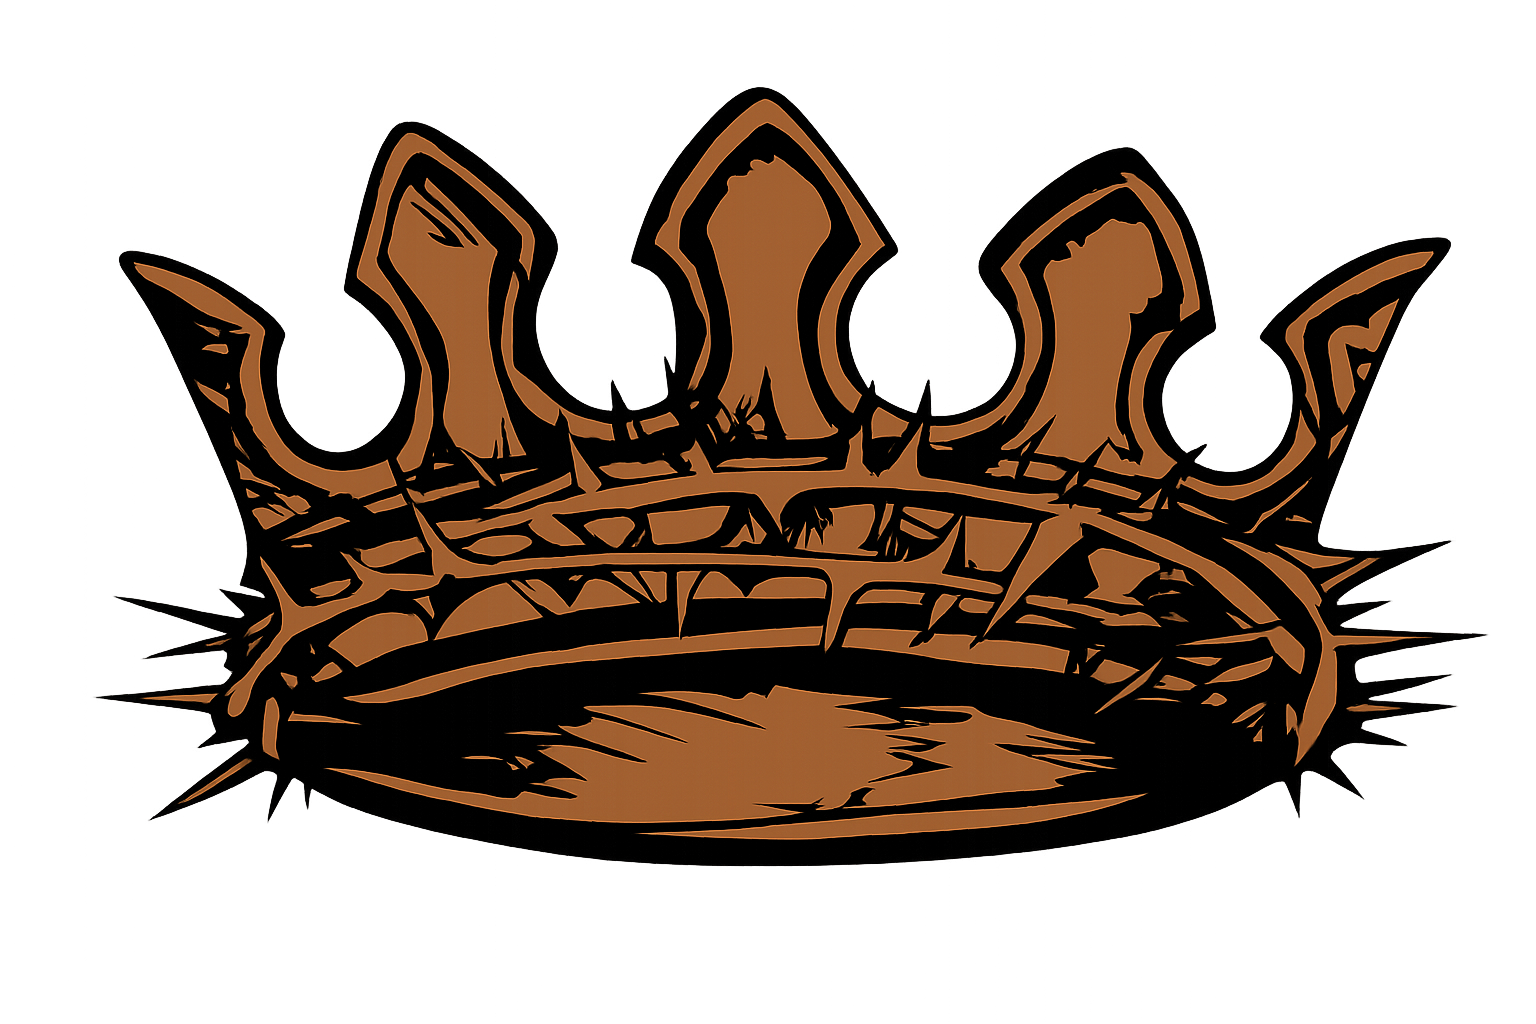
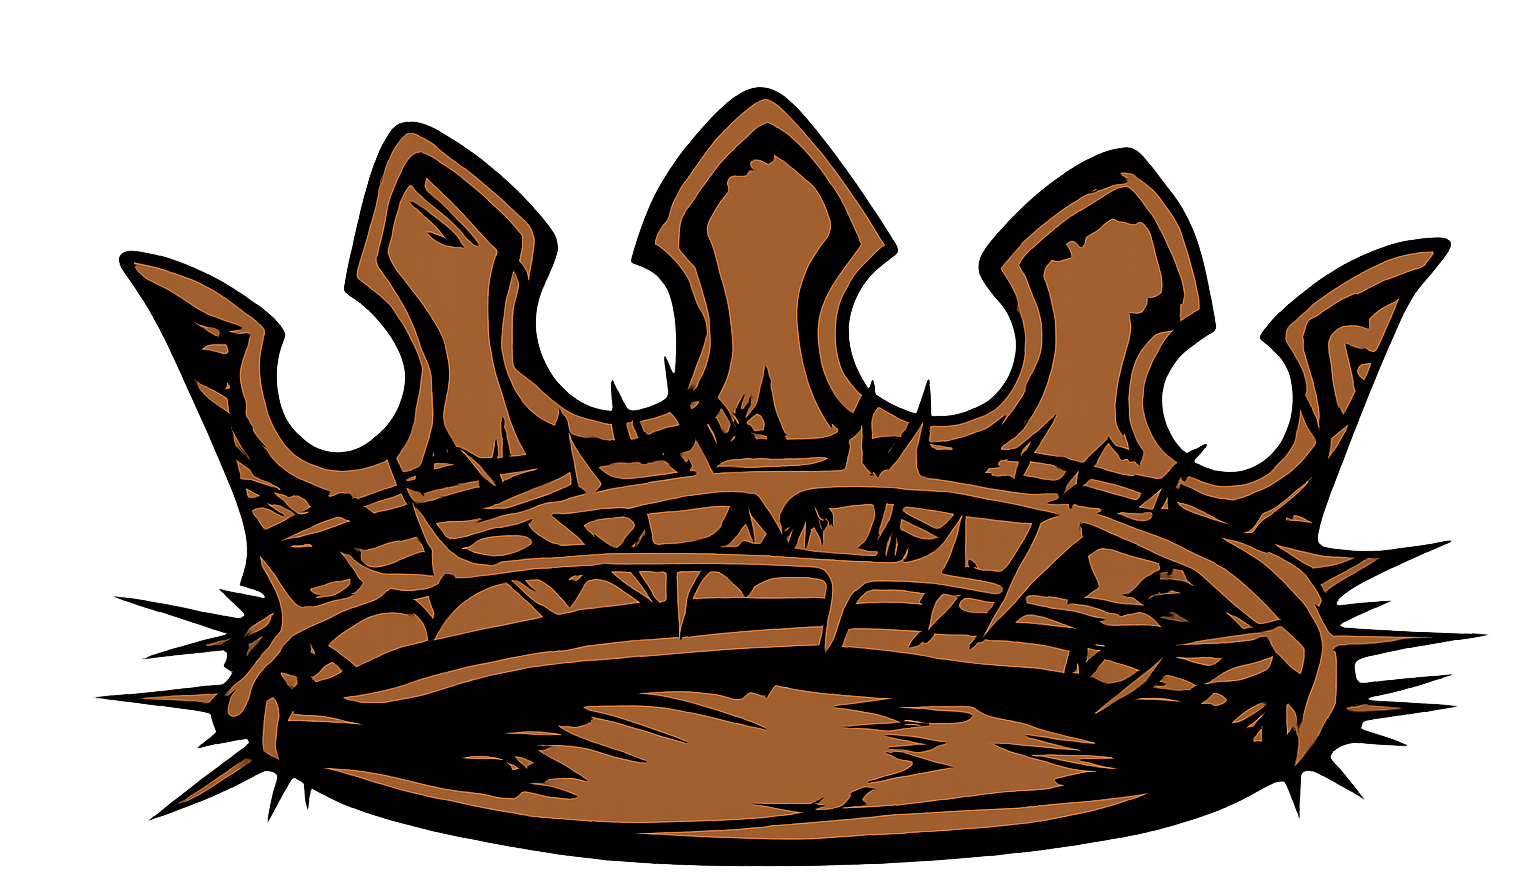
feat: JESUS is KING resize image

diff --git a/README.md b/README.md
@@ -139,7 +139,7 @@
 Data Pipelines • AI/ML • System Architecture • Academic Research
 
 <h4 align="center">
-  Jesus is <span style="position: relative; display: inline-block;"><strong>King</strong><img src="assets/jesus-crown.png" alt="Crown" height="18" style="position: absolute; top: -14px; left: 50%; transform: translateX(-50%);" /></span><br><br>
+  Jesus is <span style="position: relative; display: inline-block;"><strong>King</strong> <img src="assets/jesus-crown.png" alt="Crown" height="18" /></span><br><br>
 </h4>
 
 <p align="center">
